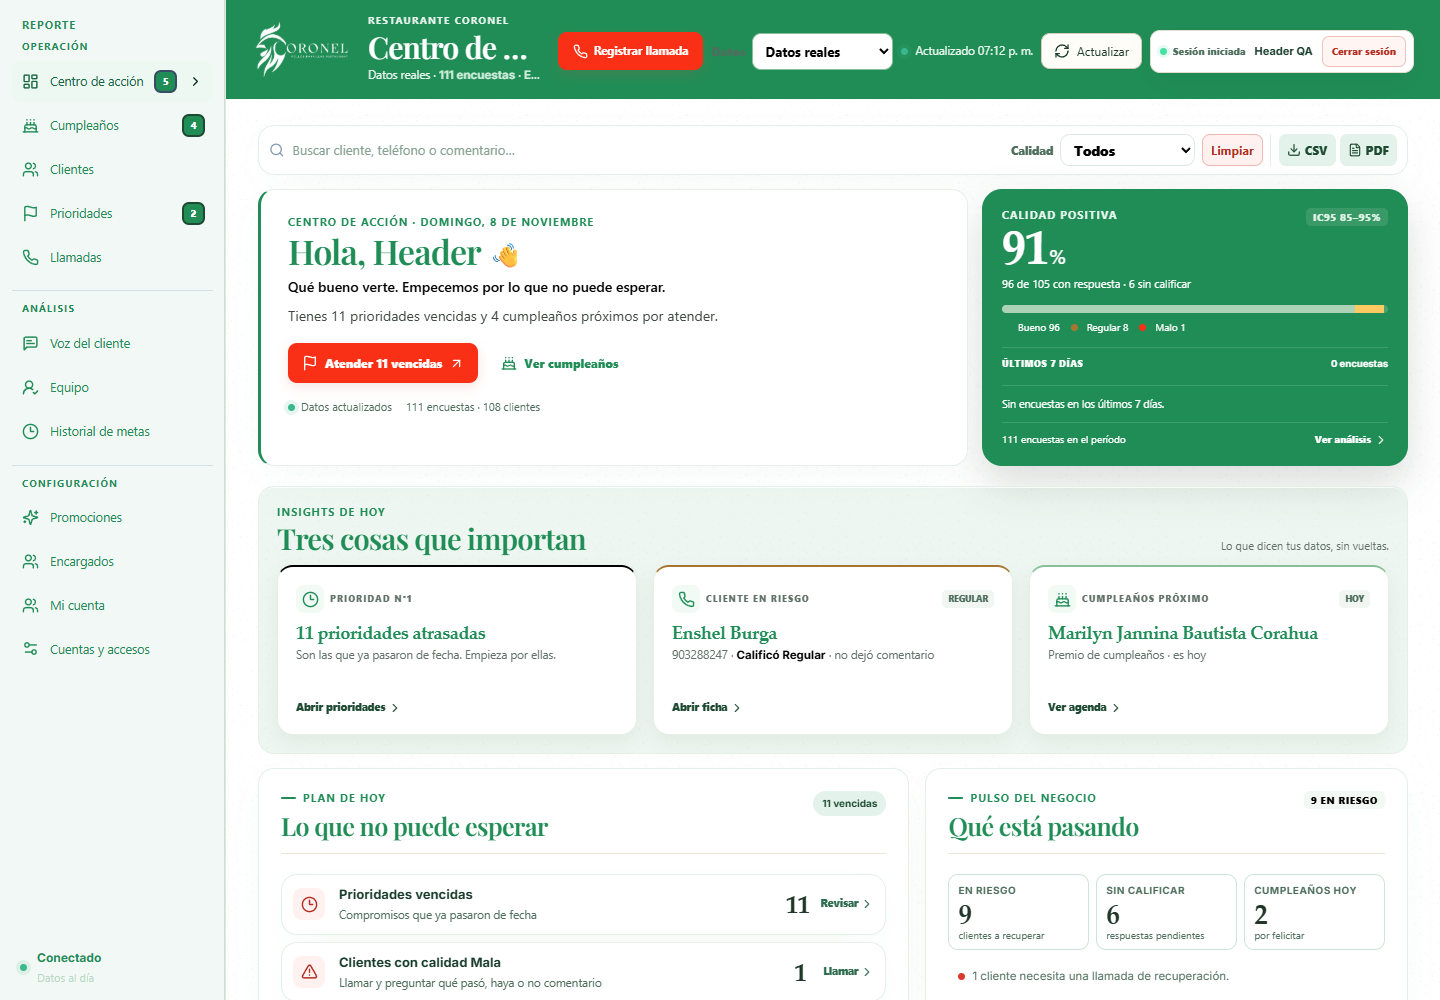
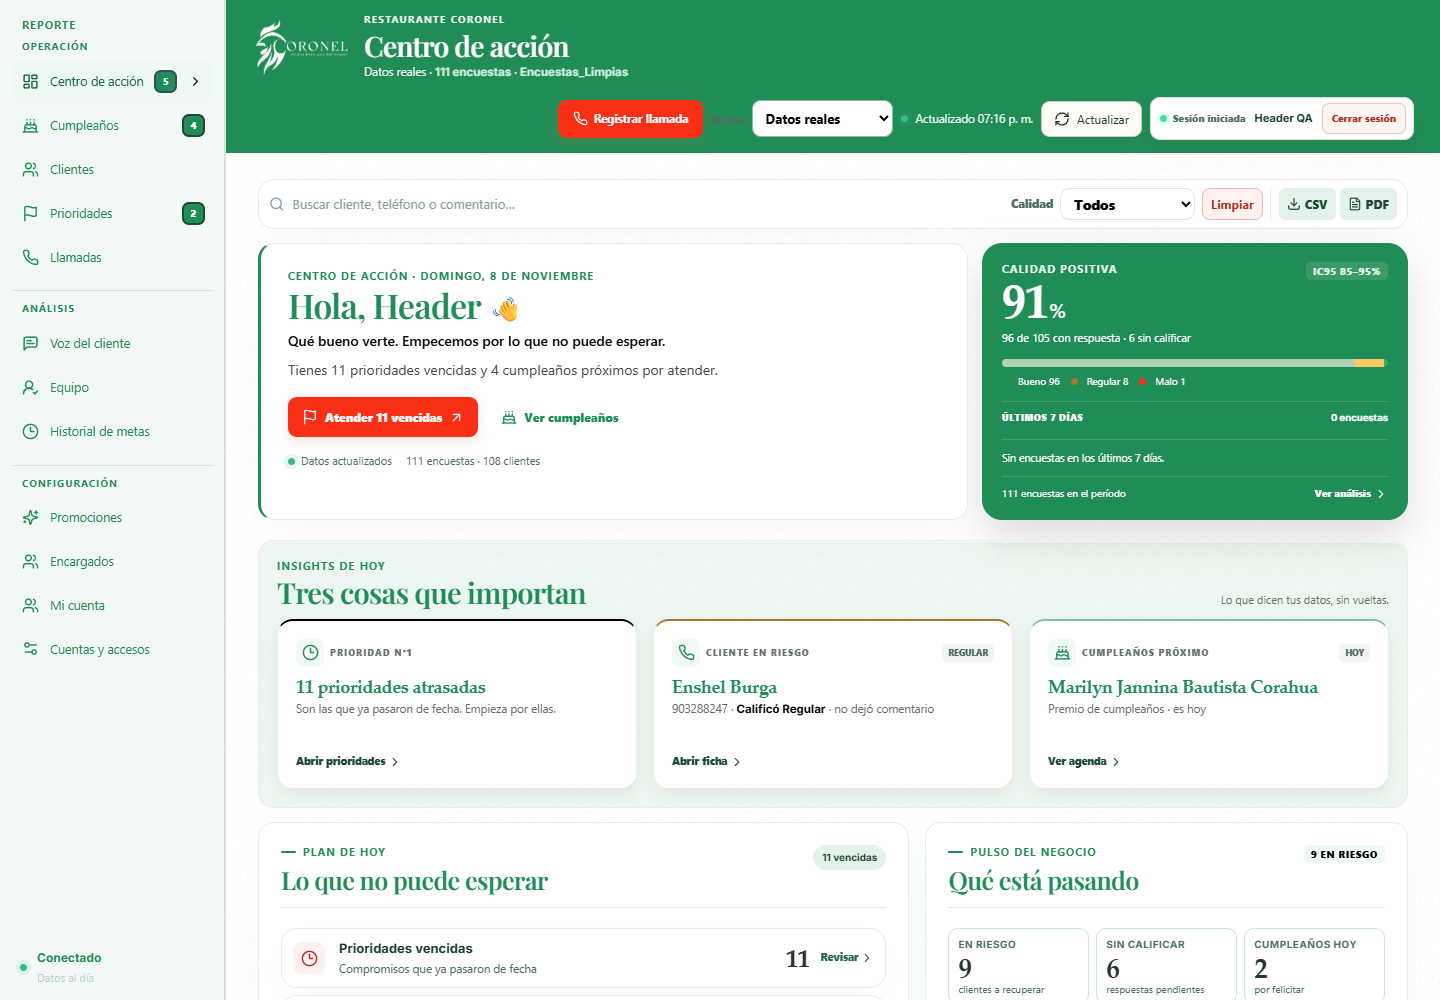
Mostrar contador en header movil y documentar tokens actualizados

diff --git a/client/src/index.css b/client/src/index.css
@@ -4164,3 +4164,17 @@ body::before {
   .top-actions { flex: 0 1 auto !important; margin-left: auto !important; }
   .topbar .topbar-data-line, .topbar .breadcrumb { display: none !important; }
 }
+
+/* Contador visible también en móvil */
+@media (max-width: 760px) {
+  .topbar .topbar-data-line {
+    display: block !important;
+    max-width: 100%;
+    font-size: 9.5px !important;
+    line-height: 1.3 !important;
+    white-space: nowrap !important;
+    overflow: hidden !important;
+    text-overflow: ellipsis !important;
+    opacity: .9;
+  }
+}

diff --git a/docs/ESTILO_BISTRO.md b/docs/ESTILO_BISTRO.md
@@ -19,7 +19,10 @@ en verde de marca, texto negro legible y rojo solo para llamadas a la acción.
 - Títulos: **Playfair Display**, verde `#208d56`.
 - Interfaz y cuerpo: **Inter**, negro.
 - Fondo: blanco puro + patrón de Coronel al **4 %**.
-- Tarjetas: blancas, radio 16 px, sombra con tinte verde muy bajo.
+- Header/topbar: verde `#208d56` con logo blanco.
+- Sidebar: verde menta `#f2f8f5`.
+- Tarjetas métricas: blancas, borde `#87c097`, radio 16 px y sombra verde suave.
+- Paneles destacados: `rgba(135,192,151,.15)`.
 - Rojo `#f93015`: solo botones principales/CTA y precios.
 
 ## Correcciones de contraste
@@ -58,6 +61,8 @@ También hay botón directo en el encabezado de Equipo y en la tarjeta
 
 ## Capturas
 
+- [Header y sidebar](screenshots/audit/header-overview.png)
+- [Header móvil](screenshots/audit/header-mobile.png)
 - [Inicio Bistró](screenshots/audit/bistro-overview.png)
 - [Contexto de señal](screenshots/audit/bistro-context.png)
 - [Clientes](screenshots/audit/bistro-clients.png)
